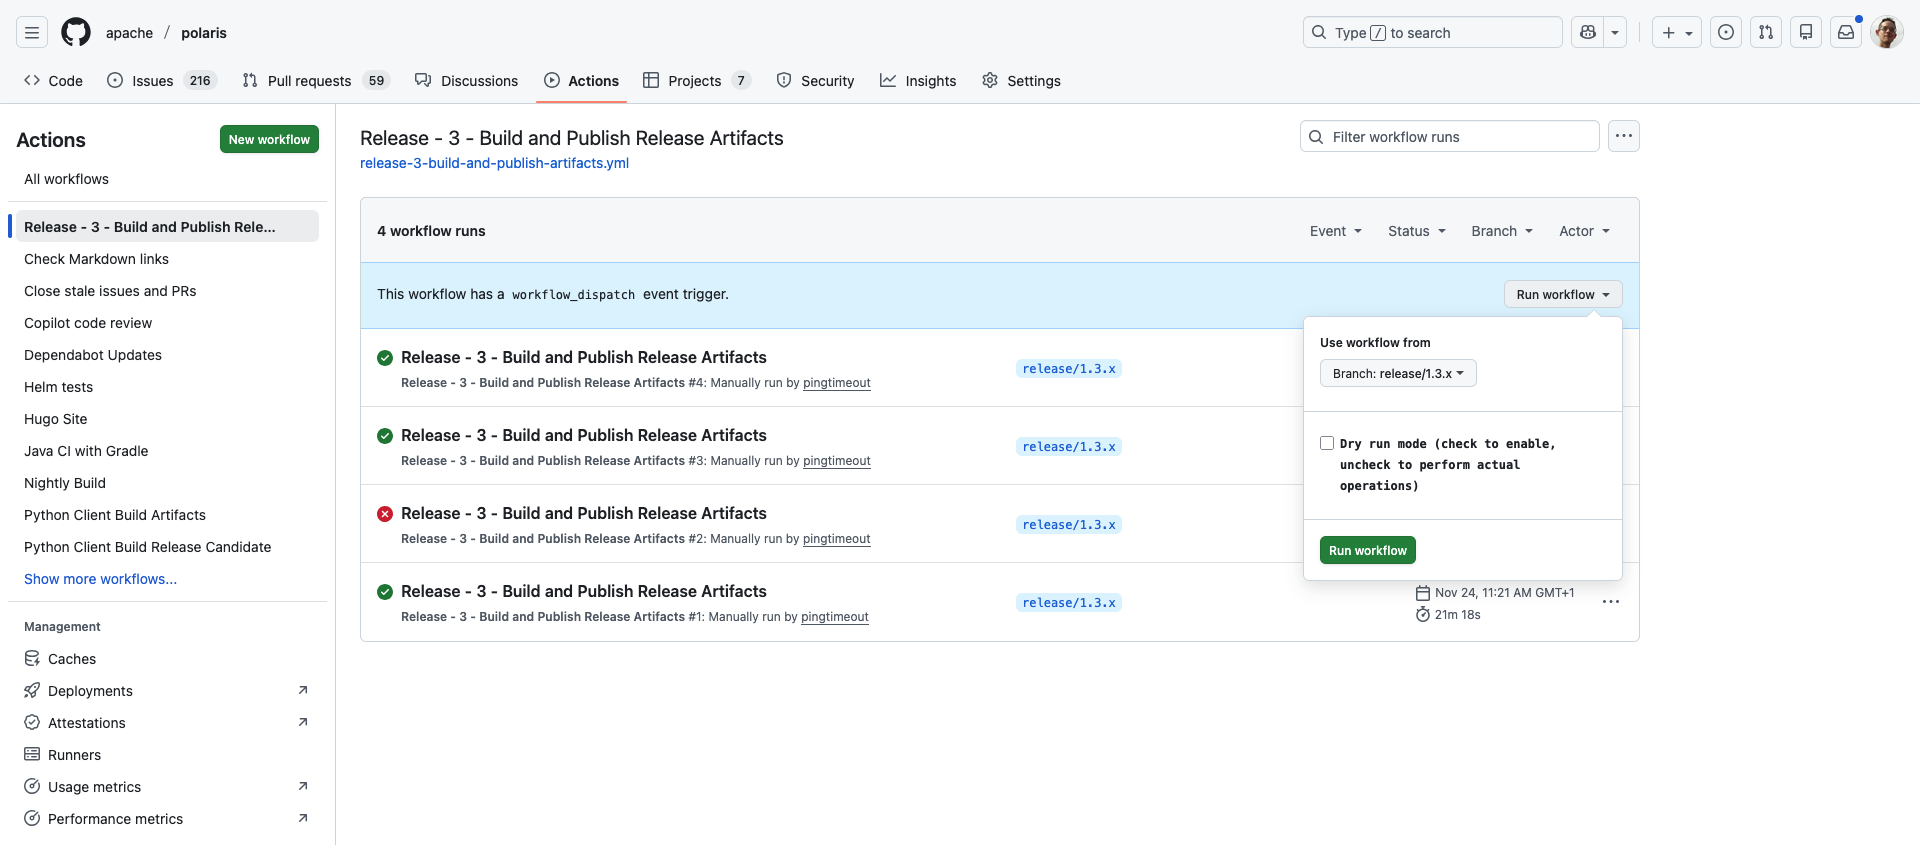
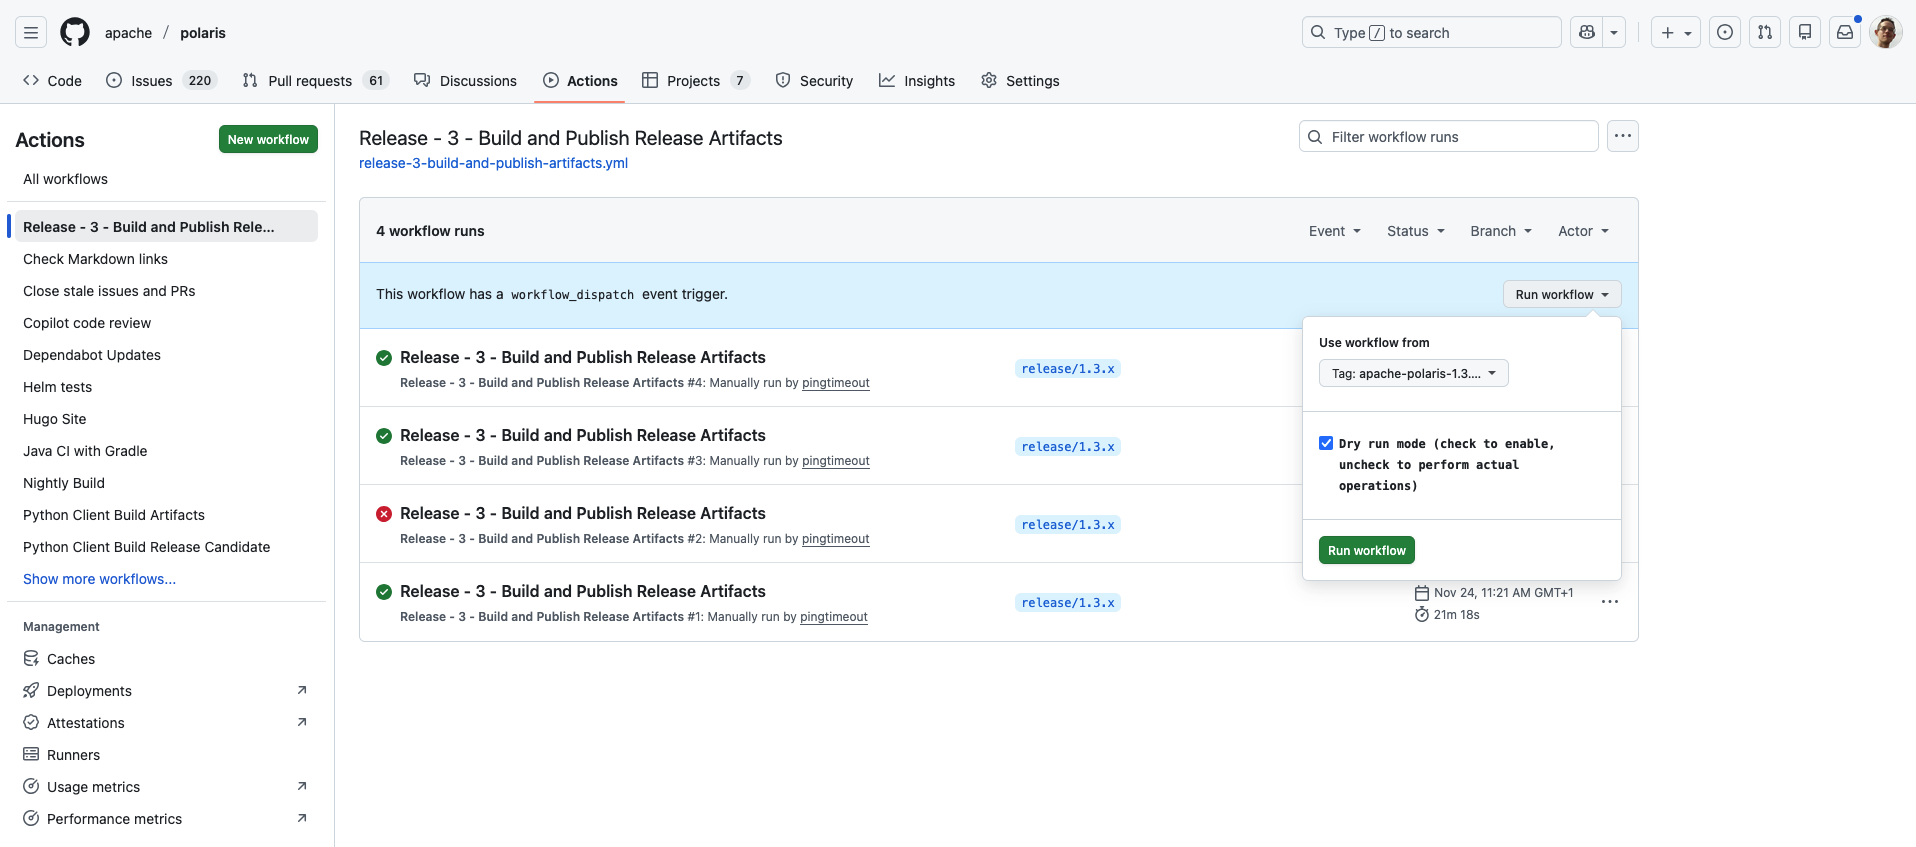
Ensure release can only run from specific SHA (#3295)
* Ensure release publish workflow can only run from last RC (#3290)
* Enable use of second release workflow for RC>0
* Patch 3rd workflow to support commits with multiple RC tags
* Force 4th workflow to only run from a release branch
* Update release guide to match new workflows

diff --git a/site/content/community/release-guides/semi-automated-release-guide.md b/site/content/community/release-guides/semi-automated-release-guide.md
@@ -44,16 +44,17 @@ Polaris follows a schedule-driven release model. The first thing to do is to sen
 Note that the tentative date is only a suggestion. The actual date of the release will be determined by taking community feedback into account. For instance, if specific pull requests are about to be merged, the release may be delayed by a couple of days to include them.
 
 ```
-[DISCUSS] Apache Polaris x.y.z
+[DISCUSS] Apache Polaris [major].[minor].[patch]
 ```
 
 ```
 Hello everyone,
 
 The purpose of this e-mail is to collect feedback on the upcoming Apache
-Polaris x.y.z release. The tentative release date is YYYY-MM-DD. Please let
-me know if you have any concerns or comments, or if there are some specific
-pull requests that you would like to see included in the release.
+Polaris [major].[minor].[patch] release. The tentative release date is
+YYYY-MM-DD. Please let me know if you have any concerns or comments, or if
+there are some specific pull requests that you would like to see included in
+the release.
 
 Thanks,
 ```
@@ -71,17 +72,20 @@ Once the workflow has run, the run details page contains a recap of the main inf
 
 ![Screenshot of a detailed run of the first release workflow for 1.3.0-incubating](/img/release-guides/github-workflow-1-detail.png "Screenshot of a detailed run of the first release workflow for 1.3.0-incubating")
 
-## RC0 only - Changelog and version update workflow
+## Release candidate tag creation workflow
 The second Github workflow to run is [`Release - 2 - Update version and Changelog for Release Candidate`](https://github.com/apache/polaris/actions/workflows/release-2-update-release-candidate.yml). This workflow will:
 * Verify that all Github checks are green for the release branch.
-* Increase the patch version number by 1 if the workflow has already been run for that `major.minor` version.
-* Update the project version files with the final version number
-* Commit the changes to the release branch
-* Create the `major.minor.patch-rc0` tag
+* For RC0 only: update the project version files with the final version number, update the changelog, and commit the changes to the release branch.
+* Create the `apache-polaris-[major].[minor].[patch]-incubating-rc[N]` tag
 
-This workflow can only be run from a `release/x.y.z` branch. Selecting any other branch in the Github Actions UI will result in a failure.
+The rules to create the `[major].[minor].[patch]-rc[N]` tag are as follows:
+* Find the last patch number for the `[major].[minor]` version by looking at existing tags, or 0 if no tag exists.
+* Find the last RC number for the `[major].[minor].[patch]` version by looking at existing tags, or 0 if no tag exists.
+* If a final release tag exists for the `[major].[minor].[patch]` version, then use `[major].[minor].[patch+1]-rc0`
+* Else if an RC tag exists for the `[major].[minor].[patch]-rc[N]` version, then create `[major].[minor].[patch]-rc[N+1]`
+* Else create `[major].[minor].[patch]-rc0`
 
-Note that the tag that is created is for RC0. This workflow should **only be executed only once** per `major.minor.patch` version.
+This workflow can only be run from a `release/[major].[minor].x` branch. Selecting any other branch in the Github Actions UI will result in a failure.
 
 ![Screenshot of the second release workflow for 1.3.0-incubating](/img/release-guides/github-workflow-2.png "Screenshot of the second release workflow for 1.3.0-incubating")
 
@@ -90,22 +94,11 @@ Like for the other workflow runs, the run details page contains a recap of the m
 ![Screenshot of a detailed run of the second release workflow for 1.3.0-incubating](/img/release-guides/github-workflow-2-detail.png "Screenshot of a detailed run of the second release workflow for 1.3.0-incubating")
 
 ## RC≥1 only - Update release branch and create tag
-If the first release candidate is rejected, additional code changes may be needed. These steps have not been automated yet.
+If the first release candidate is rejected, additional code changes may be needed.
 
 Each code change that should be added to the release branch must be cherry-picked from the main branch and proposed in a dedicated pull request. The pull request must be reviewed and approved before being merged. This step is mandatory so that Github runs the CI checks. The subsequent workflows will verify that those checks passed.
 
-Once the pull requests have been merged, create a new `apache-polaris-[major].[minor].[patch]-incubating-rc[N]` tag. The commands below assume that the `apache/polaris` Git repository corresponds to the `apache` remote.
-
-```bash
-# Ensure you're on the correct release branch and have the latest changes
-git fetch apache
-git checkout release/[major].[minor].x
-git pull apache release/[major].[minor].x
-
-# Create and push the release candidate tag
-git tag -a apache-polaris-[major].[minor].[patch]-incubating-rc[N] -m "Apache Polaris [major].[minor].[patch] (incubating) release candidate [N]"
-git push apache apache-polaris-[major].[minor].[patch]-incubating-rc[N]
-```
+Once the pull requests have been merged, run the second workflow again to create a new RC tag. The workflow will automatically determine the next RC number.
 
 ## Build and publish release artifacts
 The third Github workflow to run is [`Release - 3 - Build and publish release artifacts`](https://github.com/apache/polaris/actions/workflows/release-3-build-and-publish-artifacts.yml). This workflow will:
@@ -118,7 +111,7 @@ The third Github workflow to run is [`Release - 3 - Build and publish release ar
 * Create signature and checksum for all package files
 * Copy package files to Apache dist dev repository
 
-This workflow can only be run from a `release/x.y.z` branch. Selecting any other branch in the Github Actions UI will result in a failure.
+This workflow must be run from an RC tag (e.g., `apache-polaris-1.3.0-incubating-rc0`). Select the tag from the `Use workflow from` dropdown in the Github Actions UI. Selecting any other reference in the Github Actions UI will result in a failure.
 
 ![Screenshot of the third release workflow for 1.3.0-incubating](/img/release-guides/github-workflow-3.png "Screenshot of the third release workflow for 1.3.0-incubating")
 
@@ -129,7 +122,7 @@ The last step for a release candidate is to create a VOTE thread on the dev mail
 Recommended title subject:
 
 ```
-[VOTE] Release Apache Polaris x.y.z (rci)
+[VOTE] Release Apache Polaris [major].[minor].[patch] (rc[N])
 ```
 
 Recommended content:
@@ -137,18 +130,18 @@ Recommended content:
 ```
 Hi everyone,
 
-I propose that we release the following RC as the official Apache Polaris x.y.z
+I propose that we release the following RC as the official Apache Polaris [major].[minor].[patch]
 release.
 
-* This corresponds to the tag: apache-polaris-x.y.z-incubating-rci
-* https://github.com/apache/polaris/commits/apache-polaris-x.y.z-incubating-rci
+* This corresponds to the tag: apache-polaris-[major].[minor].[patch]-incubating-rc[N]
+* https://github.com/apache/polaris/commits/apache-polaris-[major].[minor].[patch]-incubating-rc[N]
 * https://github.com/apache/polaris/tree/<SHA1>
 
 The release tarball, signature, and checksums are here:
-* https://dist.apache.org/repos/dist/dev/incubator/polaris/x.y.z-incubating
+* https://dist.apache.org/repos/dist/dev/incubator/polaris/[major].[minor].[patch]-incubating
 
 Helm charts are available on:
-* https://dist.apache.org/repos/dist/dev/incubator/polaris/helm-chart/x.y.z-incubating/
+* https://dist.apache.org/repos/dist/dev/incubator/polaris/helm-chart/[major].[minor].[patch]-incubating/
 
 NB: you have to build the Docker images locally in order to test Helm charts.
 
@@ -164,7 +157,7 @@ https://polaris.apache.org/community/release-verify/.
 
 Please vote in the next 72 hours.
 
-[ ] +1 Release this as Apache polaris x.y.z
+[ ] +1 Release this as Apache polaris [major].[minor].[patch]
 [ ] +0
 [ ] -1 Do not release this because...
 
@@ -183,13 +176,13 @@ The next steps depend on the vote result.
 When a release candidate is rejected, reply with the vote result:
 
 ```
-[RESULT][VOTE] Release Apache Polaris x.y.z (rci)
+[RESULT][VOTE] Release Apache Polaris [major].[minor].[patch] (rc[N])
 ```
 
 ```
 Hello everyone,
 
-Thanks to all who participated in the vote for Release Apache Polaris x.y.z (rci).
+Thanks to all who participated in the vote for Release Apache Polaris [major].[minor].[patch] (rc[N]).
 
 The vote failed due to [reason].
 
@@ -202,11 +195,11 @@ Thanks,
 When the release candidate vote passes, send a new e-mail with the vote result:
 
 ```
-[RESULT][VOTE] Release Apache Polaris x.y.z (rci)
+[RESULT][VOTE] Release Apache Polaris [major].[minor].[patch] (rc[N])
 ```
 
 ```
-Thanks everyone who participated in the vote for Release Apache Polaris x.y.z (rci).
+Thanks everyone who participated in the vote for Release Apache Polaris [major].[minor].[patch] (rc[N]).
 
 The vote result is:
 
@@ -223,13 +216,13 @@ As Polaris is an Apache Incubator project, you now have to start a new vote on t
 You have to send this email to general@incubator.apache.org:
 
 ```
-[VOTE] Release Apache Polaris x.y.z (rci)
+[VOTE] Release Apache Polaris [major].[minor].[patch] (rc[N])
 ```
 
 ```
 Hello everyone,
 
-The Apache Polaris community has voted and approved the release of Apache Polaris x.y.z (rci).
+The Apache Polaris community has voted and approved the release of Apache Polaris [major].[minor].[patch] (rc[N]).
 We now kindly request the IPMC members review and vote for this release.
 
 Polaris community vote thread:
@@ -238,12 +231,12 @@ Polaris community vote thread:
 Vote result thread:
 * https://lists.apache.org/thread/<VOTE RESULT>
 
-* This corresponds to the tag: apache-polaris-x.y.z-rci
-* https://github.com/apache/polaris/commits/apache-polaris-x.y.z-rci
+* This corresponds to the tag: apache-polaris-[major].[minor].[patch]-incubating-rc[N]
+* https://github.com/apache/polaris/commits/apache-polaris-[major].[minor].[patch]-rc[N]
 * https://github.com/apache/polaris/tree/<SHA1>
 
 The release tarball, signature, and checksums are here:
-* https://dist.apache.org/repos/dist/dev/incubator/polaris/x.y.z
+* https://dist.apache.org/repos/dist/dev/incubator/polaris/[major].[minor].[patch]
 
 Helm charts are available on:
 * https://dist.apache.org/repos/dist/dev/incubator/polaris/helm-chart
@@ -286,7 +279,7 @@ When a release candidate is rejected, reply in the same thread with the vote res
 ```
 Hello everyone,
 
-Thanks to all who participated in the vote for Release Apache Polaris x.y.z (rci).
+Thanks to all who participated in the vote for Release Apache Polaris [major].[minor].[patch] (rc[N]).
 
 The vote failed due to [reason].
 
@@ -297,13 +290,13 @@ Thanks,
 When the release candidate vote passes, send a new e-mail with the vote result:
 
 ```
-[RESULT][VOTE] Release Apache Polaris x.y.z (rci)
+[RESULT][VOTE] Release Apache Polaris [major].[minor].[patch] (rc[N])
 ```
 
 ```
 Hello everyone,
 
-The vote to release Apache Polaris x.y.z (rci) has passed with [N] +1 binding and [M] +1 non-binding votes.
+The vote to release Apache Polaris [major].[minor].[patch] (rc[N]) has passed with [N] +1 binding and [M] +1 non-binding votes.
 
 Binding +1 votes:
 * [NAME]
@@ -322,6 +315,7 @@ We will proceed with publishing the approved artifacts and sending out the annou
 
 ## Publish the release
 The final workflow to run is [`Release - 4 - Publish Release After Vote Success`](https://github.com/apache/polaris/actions/workflows/release-4-publish-release.yml). This workflow will:
+* Verify that the release branch HEAD matches the last RC tag
 * Copy artifacts from the dist dev to the dist release SVN repository
 * Update the Helm index in dist release repository accordingly
 * Create a final release tag
@@ -329,7 +323,7 @@ The final workflow to run is [`Release - 4 - Publish Release After Vote Success`
 * Create a Github release with the release artifacts
 * Release the candidate repository on Apache Nexus
 
-This workflow can only be run from the `release/x.y.z` branch for which a vote has passed. It also requires the Nexus staging repository id (`orgapachepolaris-<ID>`) that was created by the previous workflow.
+This workflow can only be run from the `release/[major].[minor].x` branch for which a vote has passed. The workflow verifies that no commits have been added to the release branch since the last RC was created. It also requires the Nexus staging repository id (`orgapachepolaris-<ID>`) that was created by the previous workflow.
 
 ![Screenshot of the fourth release workflow for 1.3.0-incubating](/img/release-guides/github-workflow-4.png "Screenshot of the fourth release workflow for 1.3.0-incubating")
 
